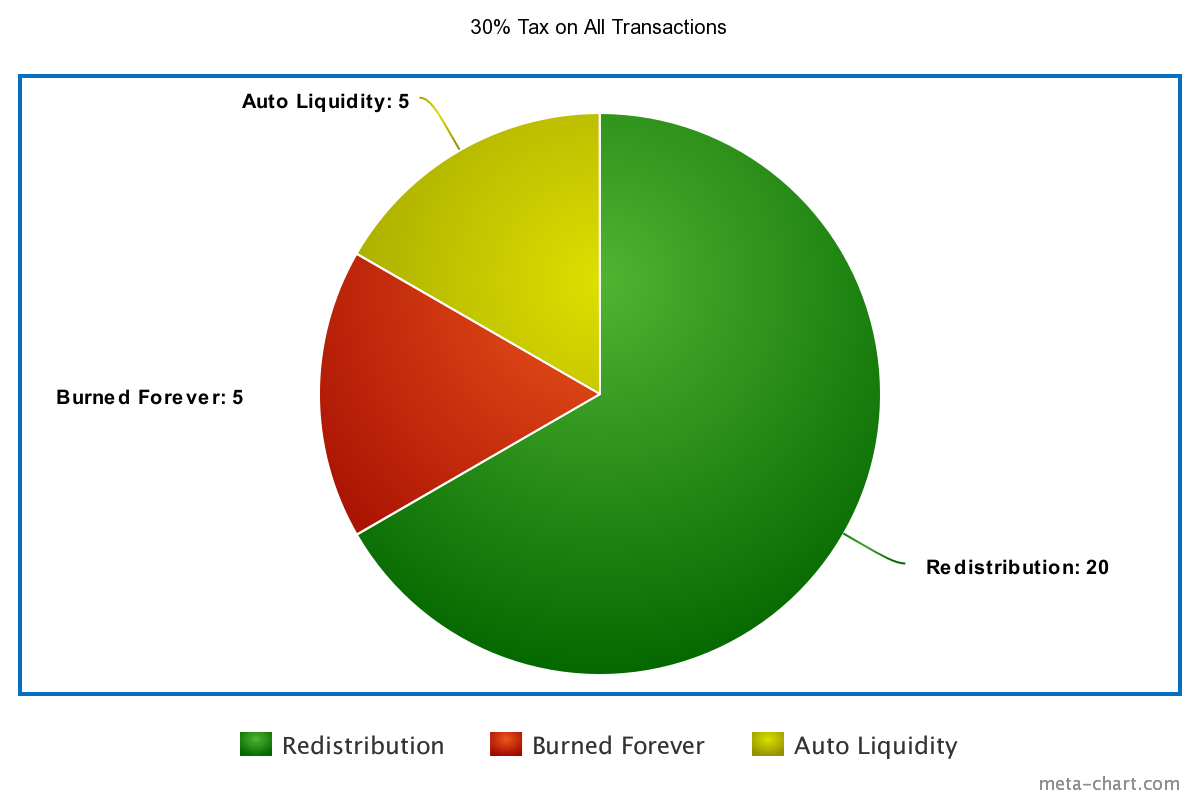
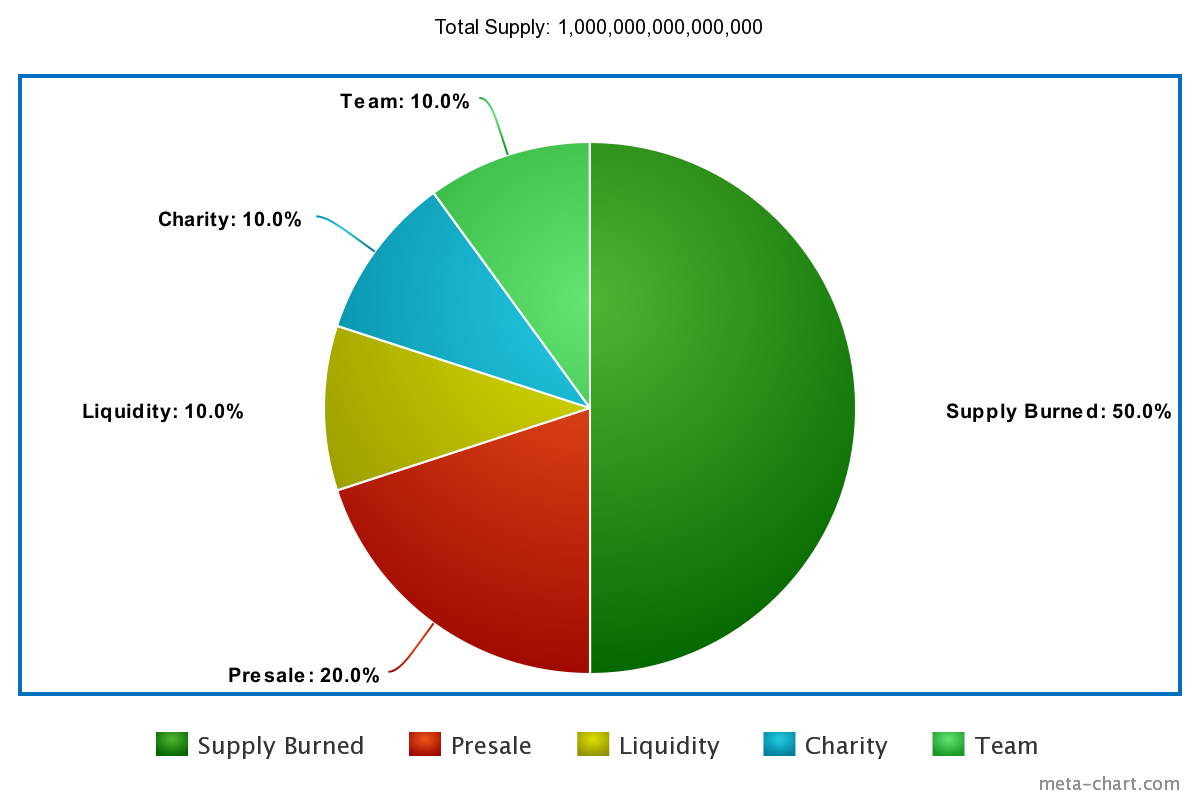
website update

diff --git a/index.html b/index.html
@@ -6,7 +6,7 @@
     <title>Saving the Bengal Kitties</title>
     <meta name="description" content="" />
     <meta name="viewport" content="width=device-width, initial-scale=1" />
-    <link rel="shortcut icon" type="image/x-icon" href="assets/img/favicon.svg"/>
+    <link rel="shortcut icon" type="image/x-icon" href="assets/img/favicon.png"/>
     <!-- Place favicon.ico in the root directory -->
 
     <!-- ========================= CSS here ========================= -->
@@ -15,6 +15,7 @@
     <link rel="stylesheet" href="assets/css/animate.css"/>
     <link rel="stylesheet" href="assets/css/lindy-uikit.css"/>
     <link rel="stylesheet" href="assets/css/base-style.css"/>
+    <script src="https://kit.fontawesome.com/f7b9e8f58d.js" crossorigin="anonymous"></script>
   </head>
   <body>
     <!--[if lte IE 9]>
@@ -145,7 +146,7 @@
     <!-- ========================= hero-section-wrapper-1 end ========================= -->
 
     <!-- ========================= feature style-3 start ========================= -->
-    <section id="features" class="feature-section feature-style-3">
+    <section id="features" class="feature-section feature-style-3 pblack">
       <div class="container">
         <div class="row justify-content-center">
           <div class="col-xxl-5 col-xl-5 col-lg-7 col-md-8">
@@ -238,11 +239,19 @@
 		<section class="team-section text-center team-style-6">
           <div class="col-12">
             <div class="section-title text-center pt-60 mb-60">
-              <h3 class="mb-15">30% Tax on all Transactions</h3>
+              <h3 class="mb-15">TOKENOMICS</h3>
               <img class="imgsize" src="assets/img/meta-chart.png">
-              <ul>Every time you buy, sell, send or move your BENGAL tokens in any manner you will burn 30% of the transaction. 
-                <li>20% will be redistributed to existing token holders</li>
-                <li>5% is burned for ever</li>
+              <ul>
+                <li>Total Supply: 1,000,000,000,000,000</li>
+                <li>Burned: 500,000,000,000,000</li>
+                <li>Presale: 200,000,000,000,000</li>
+                <li>Liquidity: 100,000,000,000,000</li>
+                <li>Charity: 100,000,000,000,000</li>
+                <li>Team: 100,000,000,000,000</li>
+              </ul><br/>
+              <ul><h3>30% Tax on All Transactions</h3>
+                <li>20% redistributed to existing token holders</li>
+                <li>5% burned for ever</li>
                 <li>5% auto added as liquidity to PancakeSwap.</li>
               </ul><br/>
               <a href="https://rebrand.ly/base-gg" rel="nofollow" target="_blank" class="button radius-30">Get Bengal Token</a>
@@ -251,6 +260,59 @@
     </section>
     <!-- ========================= team style-6 end ========================= -->
 
+     <!-- ========================= feature style-3 start ========================= -->
+    <section id="features" class="feature-section feature-style-3">
+      <div class="container">
+        <div class="row justify-content-center">
+          <div class="col-xxl-5 col-xl-5 col-lg-7 col-md-8">
+            <div class="section-title text-center mb-60">
+              <h3 class="mb-15">Team Members</h3>
+              <p>A team of two with 10+ years of combined experience working in crypto.</p>
+            </div>
+          </div>
+        </div>
+
+        <div class="row">
+          <div class="col-lg-6 col-md-6">
+            <div class="single-feature">
+              <img src="assets/img/orlando.jpg" alt="" class="roundimage">
+            </div>
+            <div class="content">
+              <h5>Orlando</h5>
+              <p>Developer and community manager. Working in crypto since 2016 and DeFi since October 2020.</p>
+            </div>
+          </div>
+          <div class="col-lg-6 col-md-6">
+            <div class="single-feature">
+             <img src="assets/img/bobby.jpg" alt="" class="roundimage">
+            </div>
+            <div class="content">
+              <h5>Bobby</h5>
+              <p>Developer and project manager. WOrking in crypto since 2014 and DeFi since October 2020.</p>
+              </div>
+          </div>
+        </div>
+      </div>
+    </section>
+    <!-- ========================= feature style-3 end ========================= -->
+
+    <!-- ========================= about style-5 start ========================= -->
+    <section id="about" class="about-section about-style-5" style="background-image: url('assets/img/about/about-5/about-img.jpg')">
+      <div class="container">
+        <div class="row">
+          <div class="col-xl-6 col-lg-8 col-md-10">
+            <div class="about-content-wrapper">
+              <div class="section-title mb-30">
+                <h3 class="mb-25">Bengal Network</h3>
+                <p>We aim to help rescue Bengal kitties who are abandonded, unwanted, abused or in situations that are not good for their survival. We support different Bengal Rescue and Adoption Agencie throughout North and South America. A lot of Bengal Kitties end up without a home because unsuspecting owners have no idea what they are getting themselves into. Bengals have high energy and need a lot of attention. If they feel neglected they will let you know. A lot of these owners end up abandoning their kitties or giving them up, we are here to help those Bengals find homes.</p>
+              </div>
+              <a href="https://bengalrescue.org/" class="button button-lg radius-10">Learn More</a>
+            </div>
+          </div>
+        </div>
+      </div>
+    </section>
+    <!-- ========================= about style-5 end ========================= -->
 
     <!-- ========================= clients-logo start ========================= -->
    
@@ -264,14 +326,16 @@
             <div class="col-xl-3 col-lg-4 col-md-6">
               <div class="footer-widget">
                 <div class="logo">
-                  <a href="#0"> <img src="assets/img/logo/logo.svg" alt=""> </a>
+                  <a href="#0"> <img src="assets/img/logo/logo.png" alt=""> </a>
                 </div>
-                <p class="desc">Lorem ipsum dolor sit amet, consectetur adipiscing elit. Facilisis nulla placerat amet amet congue.</p>
+                
                 <ul class="socials">
-                  <li> <a href="#0"> <i class="lni lni-facebook-filled"></i> </a> </li>
-                  <li> <a href="#0"> <i class="lni lni-twitter-filled"></i> </a> </li>
-                  <li> <a href="#0"> <i class="lni lni-instagram-filled"></i> </a> </li>
-                  <li> <a href="#0"> <i class="lni lni-linkedin-original"></i> </a> </li>
+
+                  <li> <a href="#0"> <i class="fab fa-twitter"></i> </a> </li>
+                  <li> <a href="#0"> <i class="fab fa-telegram"></i> </a> </li>
+                  <li> <a href="#0"> <i class="fab fa-discord"></i> </a> </li>
+                  <li> <a href="#0"> <i class="fab fa-medium"></i> </a> </li>
+                  <li> <a href="#0"> <i class="fab fa-github"></i> </a> </li>
                 </ul>
               </div>
             </div>
@@ -280,10 +344,10 @@
                 <h6>Quick Link</h6>
                 <ul class="links">
                   <li> <a href="#0">Home</a> </li>
-                  <li> <a href="#0">About</a> </li>
-                  <li> <a href="#0">Service</a> </li>
-                  <li> <a href="#0">Testimonial</a> </li>
-                  <li> <a href="#0">Contact</a> </li>
+                  <li> <a href="#0">Pancakeswap</a> </li>
+                  <li> <a href="#0">Bengals</a> </li>
+                  <li> <a href="#0">BSC Scan</a> </li>
+                  <li> <a href="#0">DOCS</a> </li>
                 </ul>
               </div>
             </div>
@@ -291,36 +355,31 @@
               <div class="footer-widget">
                 <h6>Services</h6>
                 <ul class="links">
-                  <li> <a href="#0">Web Design</a> </li>
-                  <li> <a href="#0">Web Development</a> </li>
-                  <li> <a href="#0">Seo Optimization</a> </li>
-                  <li> <a href="#0">Blog Writing</a> </li>
+                  <li> <a href="#0">Poocoin</a> </li>
+                  <li> <a href="#0">Dex Guru</a> </li>
+                  <li> <a href="#0">Coin Gecko</a> </li>
+                  <li> <a href="#0">Coinmarketcap</a> </li>
                 </ul>
               </div>
             </div>
             <div class="col-xl-3 col-lg-3 col-md-6">
               <div class="footer-widget">
-                <h6>Download App</h6>
+                <h6>Get Bengal Token</h6>
                 <ul class="download-app">
                   <li>
                     <a href="#0">
-                      <span class="icon"><i class="lni lni-apple"></i></span>
-                      <span class="text">Download on the <b>App Store</b> </span>
+                      <span class="text"><b>Pancakeswap</b> 
                     </a>
                   </li>
-                  <li>
-                    <a href="#0">
-                      <span class="icon"><i class="lni lni-play-store"></i></span>
-                      <span class="text">GET IT ON <b>Play Store</b> </span>
-                    </a>
-                  </li>
+                  
                 </ul>
               </div>
             </div>
           </div>
         </div>
         <div class="copyright-wrapper">
-          <p>Design and Developed by <a href="https://uideck.com" rel="nofollow" target="_blank">UIdeck</a> Built-with <a href="https://rebrand.ly/ud-lindy" rel="nofollow" target="_blank">Lindy UI Kit</a></p>        </div>
+          <p>Bengal.Network 2021</p>        
+        </div>
       </div>
     </footer>
     <!-- ========================= footer style-4 footer-dark end ========================= -->
@@ -335,5 +394,6 @@
     <script src="assets/js/count-up.min.js"></script>
     <script src="assets/js/wow.min.js"></script>
     <script src="assets/js/main.js"></script>
+
   </body>
 </html>

diff --git a/assets/css/lindy-uikit.css b/assets/css/lindy-uikit.css
@@ -769,7 +769,7 @@ p {
 .hero-section-wrapper-1 .hero-style-1 {
   position: relative;
   z-index: 1;
-  background: #cdc7af;
+  background: #ffffff;
 }
 
 .hero-section-wrapper-1 .hero-style-1 .hero-content-wrapper {
@@ -896,7 +896,7 @@ p {
     FEATURE-3 CSS
 ================================ */
 .feature-style-3 {
-  background: #ffffff;
+  background: #f7d9b3;
   padding: 100px 0;
 }
 
@@ -2368,6 +2368,10 @@ input:focus, textarea:focus, button:focus {
 
 .h1white {
   color: #ffffff;
+}
+
+.pblack {
+  color: #000000;
 }
 
 
